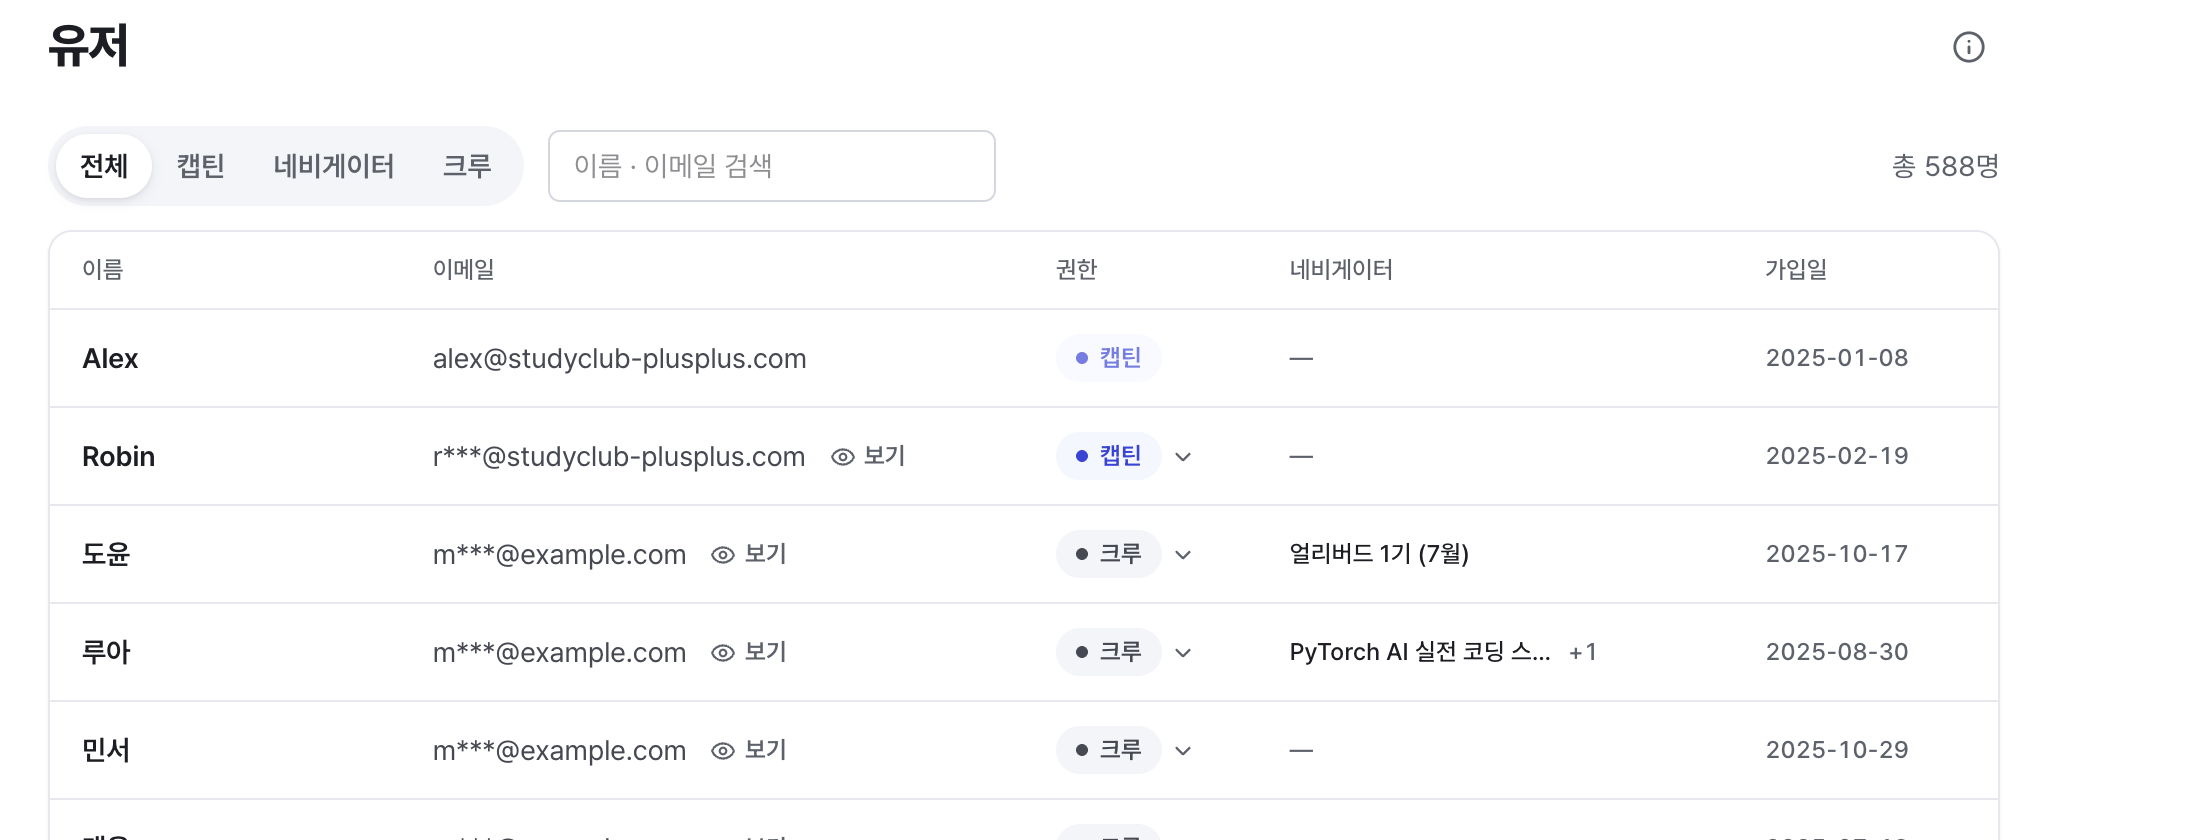
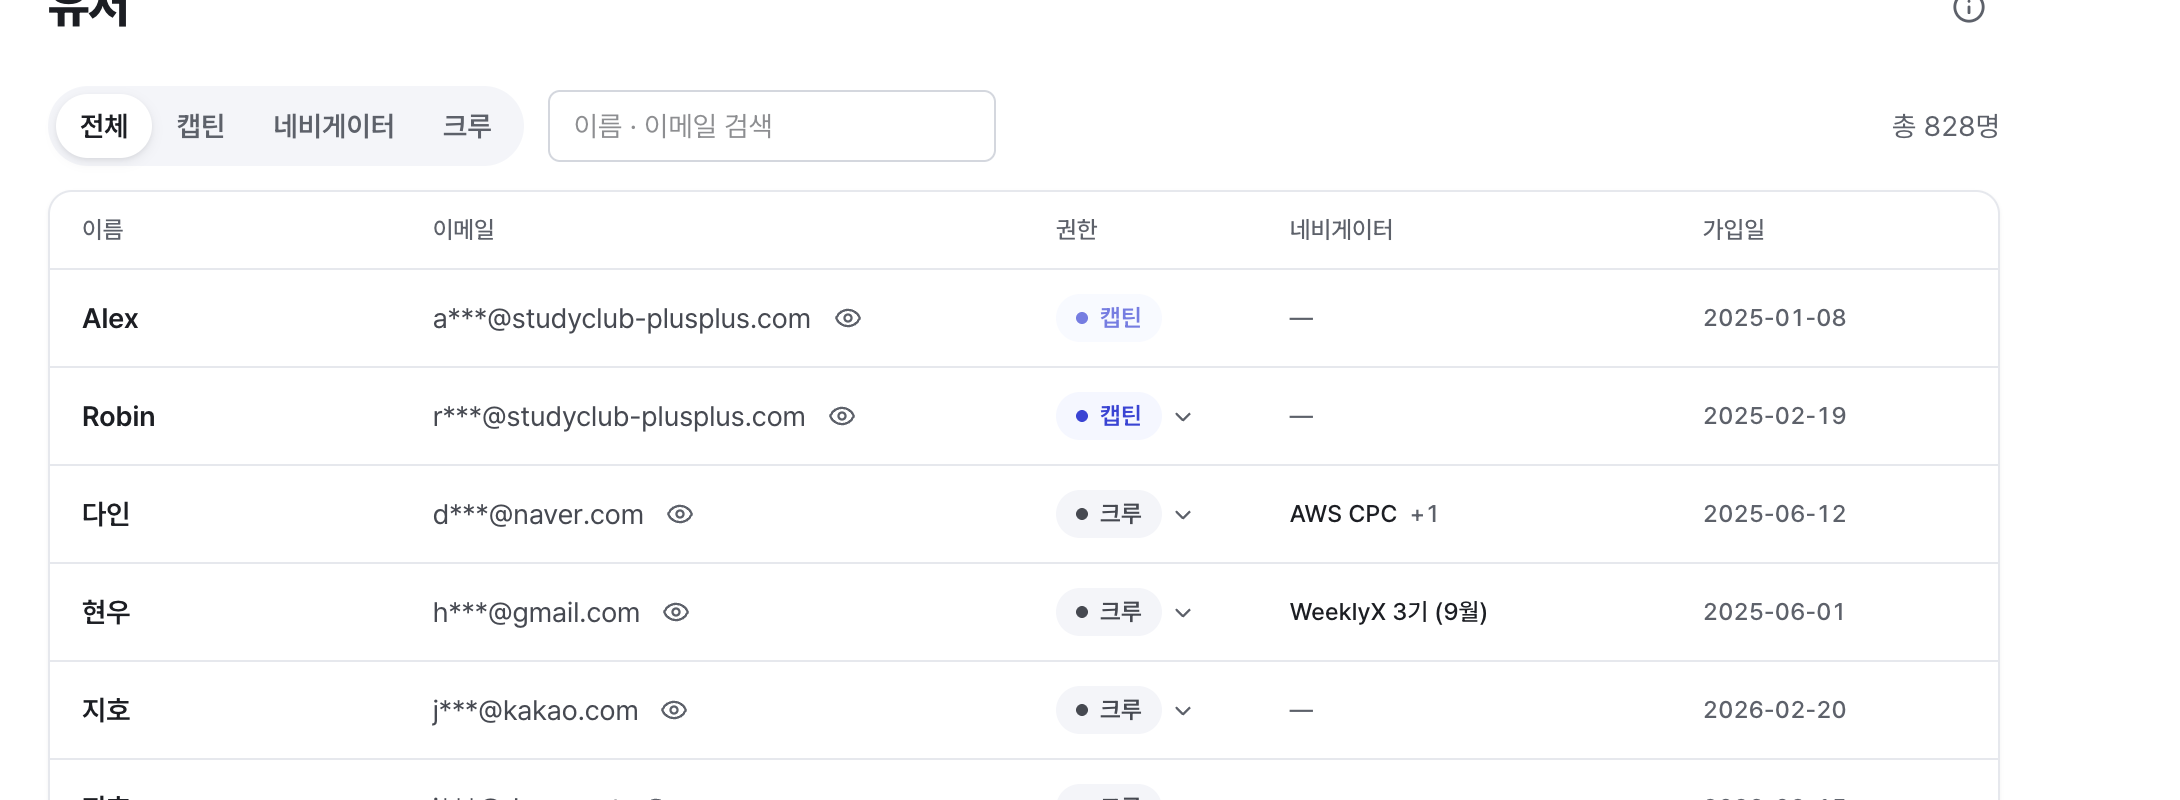
design: 이메일은 가린 채로, 줄마다 눈 아이콘으로 펼친다
유저 목록과 알림 발송 이력이 같은 규칙을 쓴다. 늘 펼쳐 두면 화면을 띄운 채 자리를 비우거나
화면을 공유할 때 수십 명의 주소가 그대로 드러난다.

- 유저 목록: 「보기」 글자를 빼고 눈 아이콘만
- 발송 이력: 같은 마스킹과 눈 아이콘 적용
- 가리는 일은 화면이 한다 — 서버가 미리 가려 보내면 필요할 때 펼칠 수 없다
- POL-0007 에 이메일 표기 절, POL-0009 와 알림 PRD 를 그에 맞게 고친다
- mock 이메일을 이름 기반 아이디와 도메인 5종으로 — 전부 같은 꼴이면 가린 칸이 아무 말도 못 한다

Claude-Session: https://claude.ai/code/session_01NjEH5cUZD5n1wEibL8yXzS

diff --git a/frontend/apps/playground/src/proto/console/components/NotificationsTable.tsx b/frontend/apps/playground/src/proto/console/components/NotificationsTable.tsx
@@ -3,6 +3,7 @@
 import { useEffect, useMemo, useRef, useState } from 'react';
 
 import { TableCard } from '@console/components/ui';
+import { maskEmail } from '@console/lib/mask';
 import {
   EVENT_FILTERS,
   EVENT_LABEL,
@@ -14,7 +15,7 @@ import {
   type NotificationStatus,
 } from '@console/lib/notifications';
 import { Badge, Button } from '@studyclub/ui';
-import { ChevronLeft, ChevronRight } from 'lucide-react';
+import { ChevronLeft, ChevronRight, Eye } from 'lucide-react';
 
 type Filter = 'all' | NotificationStatus;
 type EventFilter = 'all' | (typeof EVENT_FILTERS)[number]['value'];
@@ -120,8 +121,8 @@ export function NotificationsTable() {
                 <td className='tnum whitespace-nowrap text-fg-secondary'>{stamp(row.createdAt)}</td>
                 <td className='whitespace-nowrap'>{EVENT_LABEL[row.eventType] ?? row.eventType}</td>
                 <td className='whitespace-nowrap text-fg-secondary'>메일</td>
-                {/* 서버가 가린 값을 그대로 쓴다 — 전체 주소를 보여주는 길은 두지 않는다 */}
-                <td className='truncate text-fg-secondary'>{row.recipientValue}</td>
+                {/* 가린 채로 두고 필요한 줄만 펼친다 — 유저 목록과 같은 규칙 (POL-0007) */}
+                <EmailCell email={row.recipientValue} />
                 <td>
                   <Badge tone={STATUS_TONE[row.status] ?? 'neutral'} dot className='whitespace-nowrap font-semibold'>
                     {STATUS_LABEL[row.status] ?? row.status}
@@ -188,6 +189,31 @@ export function NotificationsTable() {
         </div>
       )}
     </div>
+  );
+}
+
+/** 수신 주소 — 가린 채로 두고, 눈 아이콘을 누른 줄만 펼친다. 펼친 것은 그 줄에만 남는다. */
+function EmailCell({ email }: { email: string }) {
+  const [shown, setShown] = useState(false);
+  return (
+    <td className='truncate text-fg-secondary'>
+      {shown ? (
+        <span title={email}>{email}</span>
+      ) : (
+        <span className='inline-flex items-center gap-1.5'>
+          {maskEmail(email)}
+          <button
+            type='button'
+            onClick={() => setShown(true)}
+            aria-label={`${maskEmail(email)} 전체 주소 보기`}
+            title='전체 주소 보기'
+            className='grid h-6 w-6 shrink-0 place-items-center rounded-control text-fg-muted transition-colors hover:bg-surface-2 hover:text-fg'
+          >
+            <Eye size={14} />
+          </button>
+        </span>
+      )}
+    </td>
   );
 }
 

diff --git a/frontend/packages/mock/src/data/crew.ts b/frontend/packages/mock/src/data/crew.ts
@@ -27,6 +27,23 @@ const CLEAN_NAMES = [
 
 const REGIONS: MemberRegion[] = ["KR", "KR", "KR", "NA", "KR", "NA", "ETC", "KR", "NA", "KR"];
 
+/**
+ * 메일 아이디 — 이름을 로마자로 적은 모양.
+ *
+ * `member540@` 처럼 전부 같은 꼴로 만들면 **가린 주소가 모두 똑같아 보여** 마스킹이 일하는지
+ * 알 수 없다. 사람마다 첫 글자와 길이가 달라야 화면이 실제처럼 읽힌다.
+ * 도메인은 `example.com` 으로 둔다 — 공개 레포라 진짜로 보이는 주소를 적지 않는다.
+ */
+const MAIL_DOMAINS = ["gmail.com", "naver.com", "kakao.com", "daum.net", "outlook.com"];
+
+const ROMAN: Record<string, string> = {
+  지원: "jiwon", 민서: "minseo", 도윤: "doyun", 서연: "seoyeon", 하준: "hajun",
+  예린: "yerin", 시우: "siwoo", 수아: "sua", 지호: "jiho", 채원: "chaewon",
+  건우: "gunwoo", 유나: "yuna", 민준: "minjun", 소율: "soyul", 준서: "junseo",
+  다인: "dain", 현우: "hyunwoo", 지안: "jian", 태윤: "taeyun", 은서: "eunseo",
+  성민: "seongmin", 가온: "gaon", 루아: "rua", 세아: "sea", 정우: "jungwoo",
+};
+
 /** 문자열 → 정수 해시. 같은 스터디는 항상 같은 명단을 만든다. */
 function hash(s: string): number {
   let h = 2166136261;
@@ -274,7 +291,7 @@ export function getStudyCrew(study: Study, today = new Date().toISOString().slic
     crew.push({
       id: `${study.id}-c${i + 1}`,
       name,
-      email: `member${(pick(s + 1, 900) + 100).toString()}@example.com`,
+      email: `${ROMAN[name] ?? "member"}${pick(s + 1, 90) + 10}@${MAIL_DOMAINS[pick(s + 2, MAIL_DOMAINS.length)]}`,
       region: REGIONS[pick(s + 5, REGIONS.length)],
       appliedAt: addWeeks(baseDate(study.recruitment?.deadline), -1 - pick(s + 9, 3)),
       pastStudies: past,

diff --git a/frontend/apps/playground/src/proto/console/lib/notifications.ts b/frontend/apps/playground/src/proto/console/lib/notifications.ts
@@ -28,7 +28,7 @@ export type NotificationRow = {
   createdAt: string;
   eventType: NotificationEvent;
   recipientType: 'EMAIL';
-  /** **서버가 마스킹한 값**. 화면에서 가공하지 않는다 */
+  /** 받는 사람 주소. 화면에는 가린 채로 두고, 필요한 줄만 눈 아이콘으로 펼친다 (POL-0007) */
   recipientValue: string;
   status: NotificationStatus;
   /** 없으면 아직 안 나갔다는 뜻 */
@@ -76,10 +76,10 @@ function hash(s: string): number {
 const NAMES = ['hong', 'jiwon', 'minsu', 'sora', 'daniel', 'yuna', 'kevin', 'haeun', 'junho', 'mia'];
 const DOMAINS = ['gmail.com', 'naver.com', 'outlook.com', 'kakao.com'];
 
-/** 서버가 내려주는 모양 그대로 — 가운데를 가린 주소. */
-function masked(seed: number): string {
+/** 받는 사람 주소. 가리는 일은 화면이 한다 — 여기서는 전체 주소를 그대로 둔다. */
+function address(seed: number): string {
   const name = NAMES[seed % NAMES.length];
-  return `${name.slice(0, 1)}***@${DOMAINS[seed % DOMAINS.length]}`;
+  return `${name}${(seed % 90) + 10}@${DOMAINS[seed % DOMAINS.length]}`;
 }
 
 /** 240건. **요청 시각 내림차순 고정** — 최근 것이 위다. */
@@ -94,7 +94,7 @@ export const notifications: NotificationRow[] = Array.from({ length: 240 }, (_, 
     createdAt: created.toISOString(),
     eventType: 'USER_REGISTERED',
     recipientType: 'EMAIL',
-    recipientValue: masked(seed),
+    recipientValue: address(seed),
     status,
     sentAt: sent ? sent.toISOString() : null,
   };

diff --git a/frontend/apps/playground/src/proto/console/components/UsersTable.tsx b/frontend/apps/playground/src/proto/console/components/UsersTable.tsx
@@ -4,6 +4,7 @@ import { useEffect, useMemo, useRef, useState } from 'react';
 
 import { Pagination } from '@console/components/Pagination';
 import { PageHeader, TableCard } from '@console/components/ui';
+import { maskEmail } from '@console/lib/mask';
 import {
   ACCOUNT_ROLES,
   PERMISSIONS,
@@ -48,21 +49,15 @@ function EmailCell({ email }: { email: string }) {
             type='button'
             onClick={() => setShown(true)}
             aria-label={`${maskEmail(email)} 전체 주소 보기`}
-            className='inline-flex items-center gap-1 rounded-control px-1.5 py-0.5 text-xs font-semibold text-fg-muted transition-colors hover:bg-surface-2 hover:text-fg'
+            title='전체 주소 보기'
+            className='grid h-6 w-6 shrink-0 place-items-center rounded-control text-fg-muted transition-colors hover:bg-surface-2 hover:text-fg'
           >
-            <Eye size={13} /> 보기
+            <Eye size={14} />
           </button>
         </span>
       )}
     </td>
   );
-}
-
-/** 아이디 첫 글자만 남기고 가린다. 도메인은 남긴다 — 어느 메일을 쓰는지는 운영에 쓸모가 있다. */
-function maskEmail(email: string): string {
-  const at = email.indexOf('@');
-  if (at <= 0) return email;
-  return `${email[0]}***${email.slice(at)}`;
 }
 
 /** 계정 권한 색. 캡틴과 크루를 색만으로 가르지 않으므로 이름도 함께 적는다. */

diff --git a/frontend/apps/playground/src/proto/console/lib/mask.ts b/frontend/apps/playground/src/proto/console/lib/mask.ts
@@ -1,0 +1,14 @@
+/**
+ * 이메일 가리기 (POL-0007).
+ *
+ * 아이디 첫 글자만 남기고 가린다. **도메인은 남긴다** — 어느 메일을 쓰는지는 운영에 쓸모가 있고,
+ * 사람을 가리키는 것은 아이디 쪽이다.
+ *
+ * 목록은 가린 채로 두고 필요한 줄만 한 번씩 펼친다. 늘 펼쳐 두면 화면을 띄운 채 자리를 비우거나
+ * 화면을 공유할 때 수십 명의 주소가 그대로 드러난다.
+ */
+export function maskEmail(email: string): string {
+  const at = email.indexOf('@');
+  if (at <= 0) return email;
+  return `${email[0]}***${email.slice(at)}`;
+}

diff --git a/01-planning/stories/notification-admin/PRD.md b/01-planning/stories/notification-admin/PRD.md
@@ -138,8 +138,8 @@ flowchart LR
 - **내용**: 요청 시각 · 알림 이름 · 채널 · 수신 주소 · 상태 · 발송 시각
 - **동작**: 요청 시각 내림차순 고정. 열 머리로 정렬하지 않고, 행을 눌러도 아무 일도 없다
 - **정책**
-  - **수신 주소는 서버가 가린 값을 그대로 쓴다** — 전체 주소를 보는 길을 두지 않는다. 열어 두면
-    조회 이력을 남겨야 하는데 그럴 장치가 없다
+  - **수신 주소는 가린 채로 두고 필요한 줄만 눈 아이콘으로 펼친다** — 유저 목록과 같은 규칙
+    ([POL-0007](../../_registry/policies/POL-0007-account-data.md)). 목록 전체를 펼치는 토글은 두지 않는다
   - 상태는 **문구와 색을 함께** 쓴다. 색만으로 가르면 색을 구분하지 못하는 사람이 읽을 수 없다
   - 「발송 완료」는 **보냈다는 뜻**이지 받았다는 뜻이 아니다 — 수신함 도착·읽음은 알 수 없다
   - 모르는 상태값은 원문 코드를 회색으로 그대로 적는다. 빈칸으로 두지 않는다
@@ -170,7 +170,7 @@ flowchart LR
 
 ### 비고
 
-- **범위 밖** — 템플릿 수정·삭제 · 재발송 · 발송 취소 · 실패 사유 상세 · 전체 주소 보기 ·
+- **범위 밖** — 템플릿 수정·삭제 · 재발송 · 발송 취소 · 실패 사유 상세 ·
   도착·읽음 여부 · 성공률 통계 · CSV 내려받기. **API 가 주지 않는 것을 화면이 지어내면 운영자는
   없는 수단을 찾는다**
 - 템플릿 화면은 **지금 등록된 문구**를 보여준다. 특정 발송 건에 쓰인 그때 원문이 아니다
@@ -190,7 +190,7 @@ flowchart LR
 | POST | `/api/admin/notification-templates` | 템플릿 추가 — 이름 · 제목 · 본문 (채널은 메일 고정) |
 | GET | `/api/admin/notifications` | 발송 이력 — `status` · `eventType` · `offset` · `limit`(20) |
 
-- 발송 이력 응답: `items[]`(`createdAt` · `eventType` · `recipientType` · `recipientValue`(마스킹) ·
+- 발송 이력 응답: `items[]`(`createdAt` · `eventType` · `recipientType` · `recipientValue`(**전체 주소**. 가리는 일은 화면이 한다) ·
   `status` · `sentAt`) + `total`. `id` · `templateId` 는 받되 화면에 쓰지 않는다
 - 알림 스펙의 `/back-office/notifications` 는 **구 경로**다 ([specs/notification](../../../specs/notification/spec.md))
 - 권한: 캡틴 ([POL-0001](../../_registry/policies/POL-0001-roles.md)). 라우팅만으로 막지 않고 서버가 검증한다

diff --git a/01-planning/_registry/policies/POL-0007-account-data.md b/01-planning/_registry/policies/POL-0007-account-data.md
@@ -18,6 +18,17 @@
 - **실명을 갖고 있지 않는다.** 구글이 주는 이름은 온보딩 닉네임 칸의 초기값으로만 쓰고 저장하지 않는다
 - **프로필 이미지를 받지 않는다.** 화면에서 사람을 가리키는 이름은 닉네임 하나다
 
+## 이메일 표기
+
+운영 화면의 목록에서 이메일은 **가린 채로 둔다.** 아이디 첫 글자만 남기고(`j***@gmail.com`),
+도메인은 남긴다 — 어느 메일을 쓰는지는 운영에 쓸모가 있고, 사람을 가리키는 것은 아이디 쪽이다.
+
+- 줄마다 **눈 아이콘**을 두고, 누른 줄만 전체 주소를 보여준다. 펼친 것은 그 줄에만 남는다
+- **목록 전체를 한 번에 펼치는 토글을 두지 않는다** — 화면을 띄운 채 자리를 비우거나 화면을 공유할 때
+  수십 명의 주소가 그대로 드러난다
+- 서버는 전체 주소를 내려주고 **가리는 일은 화면이 한다** — 서버가 미리 가려 보내면 필요할 때 펼칠 수 없다
+- 적용: 유저 목록 · 알림 발송 이력 · 신청자 명단
+
 ## 탈퇴
 
 | 무엇 | 규칙 |

diff --git a/01-planning/_registry/policies/POL-0009-notification.md b/01-planning/_registry/policies/POL-0009-notification.md
@@ -26,8 +26,9 @@
 - **조회만 한다.** 재발송·발송 취소·실패 사유 상세는 두지 않는다 — API 가 주지 않는 것을 화면이
   지어내면 운영자는 없는 수단을 찾는다
 - 「발송 완료」는 **보냈다는 뜻**이지 받았다는 뜻이 아니다. 수신함 도착·읽음은 알 수 없다
-- **수신 주소는 서버가 가린 값을 그대로 쓴다.** 전체 주소를 보는 길을 두지 않는다 — 열어 두면 조회
-  이력을 남겨야 하고, 지금은 그럴 장치가 없다
+- **수신 주소는 가린 채로 두고, 필요한 줄만 펼친다** — 유저 목록과 같은 규칙 ([POL-0007](POL-0007-account-data.md)).
+  서버는 전체 주소를 내려주고 가리는 일은 화면이 한다 — 서버가 미리 가려 보내면 운영자가 필요할 때
+  펼칠 수 없다
 - 읽기 실패를 「0건」으로 보여주지 않는다 ([POL-0008](POL-0008-screen-rules.md))
 
 ## 마케팅 동의와 무관한 알림
